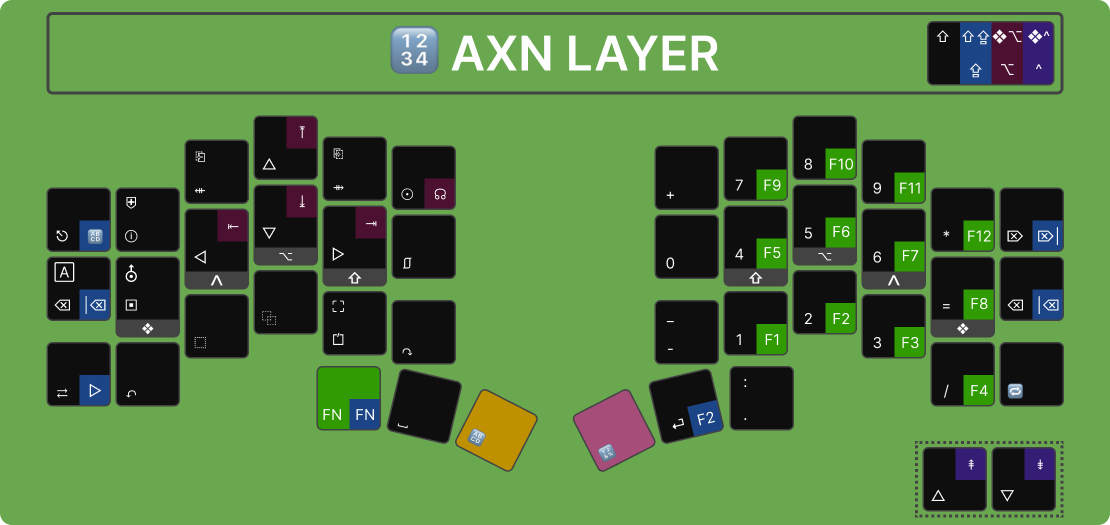
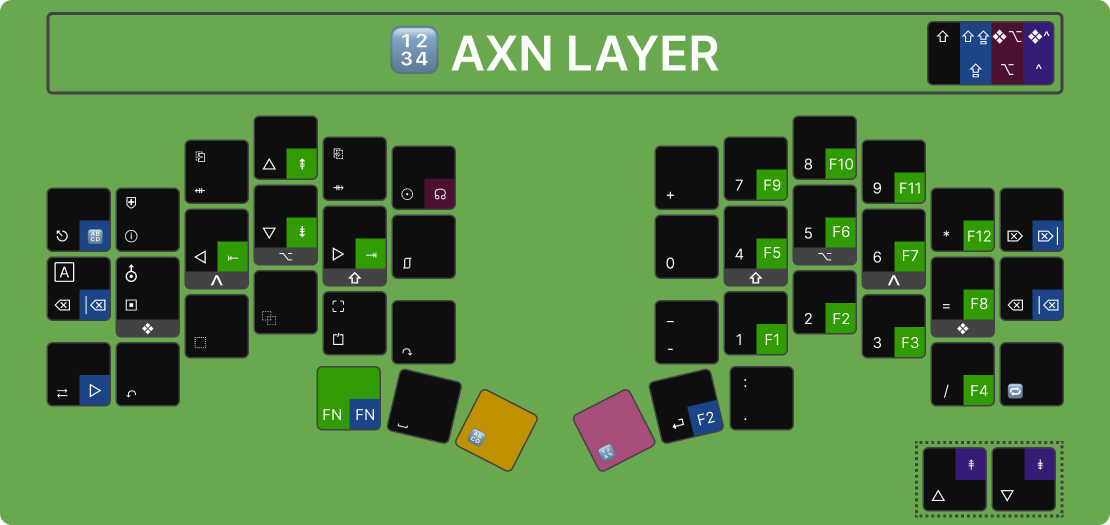
move navigation shortcuts from AHK to FNK layer

Changed region(s): [[0.1838, 0.2133, 0.3676, 0.5181]]

diff --git a/README.md b/README.md
@@ -177,16 +177,16 @@ Quick navigation actions and numbers. Function keys works independently as a sub
 | <kbd>▽</kbd>  |                                        | Down                 |
 | <kbd>◁</kbd>  |                                        | Left                 |
 | <kbd>▷</kbd>  |                                        | Right                |
-| <kbd>⤒</kbd>  | <kbd>❖</kbd>+<kbd>⇧</kbd>+<kbd>△</kbd> | Beginning of document |
-| <kbd>⤓</kbd>  | <kbd>❖</kbd>+<kbd>⇧</kbd>+<kbd>▽</kbd> | End of document       |
-| <kbd>⇤</kbd>  | <kbd>❖</kbd>+<kbd>⇧</kbd>+<kbd>◁</kbd> | Beginning of line     |
-| <kbd>⇥</kbd>  | <kbd>❖</kbd>+<kbd>⇧</kbd>+<kbd>▷</kbd> | End of line           |
-| <kbd>⇞</kbd>  | <kbd>❖</kbd>+<kbd>^</kbd>+<kbd>△</kbd> | Page up               |
-| <kbd>⇟</kbd>  | <kbd>❖</kbd>+<kbd>^</kbd>+<kbd>▽</kbd> | Page down             |
+| <kbd>⇤</kbd>  |                                         | Beginning of line     |
+| <kbd>⇥</kbd>  |                                         | End of line           |
+| <kbd>⇞</kbd>  |                                         | Page up               |
+| <kbd>⇟</kbd>  |                                         | Page down             |
+| <kbd>⤒</kbd>  | <kbd>^</kbd>+<kbd>⇞</kbd>               | Beginning of document |
+| <kbd>⤓</kbd>  | <kbd>^</kbd>+<kbd>⇟</kbd>               | End of document       |
 | <kbd>⇺</kbd>  |                                         | Prev Tab              |
 | <kbd>⇻</kbd>  |                                         | Next Tab              |
-| <kbd>⎗</kbd>  | <kbd>⇧</kbd>+<kbd>⇺</kbd>              | Prev desktop          |
-| <kbd>⎘</kbd>  | <kbd>⇧</kbd>+<kbd>⇻</kbd>              | Next desktop          |
+| <kbd>⎗</kbd>  | <kbd>⇧</kbd>+<kbd>⇟</kbd>              | Prev desktop          |
+| <kbd>⎘</kbd>  | <kbd>⇧</kbd>+<kbd>⇞</kbd>              | Next desktop          |
 
 ##### Actions
 
